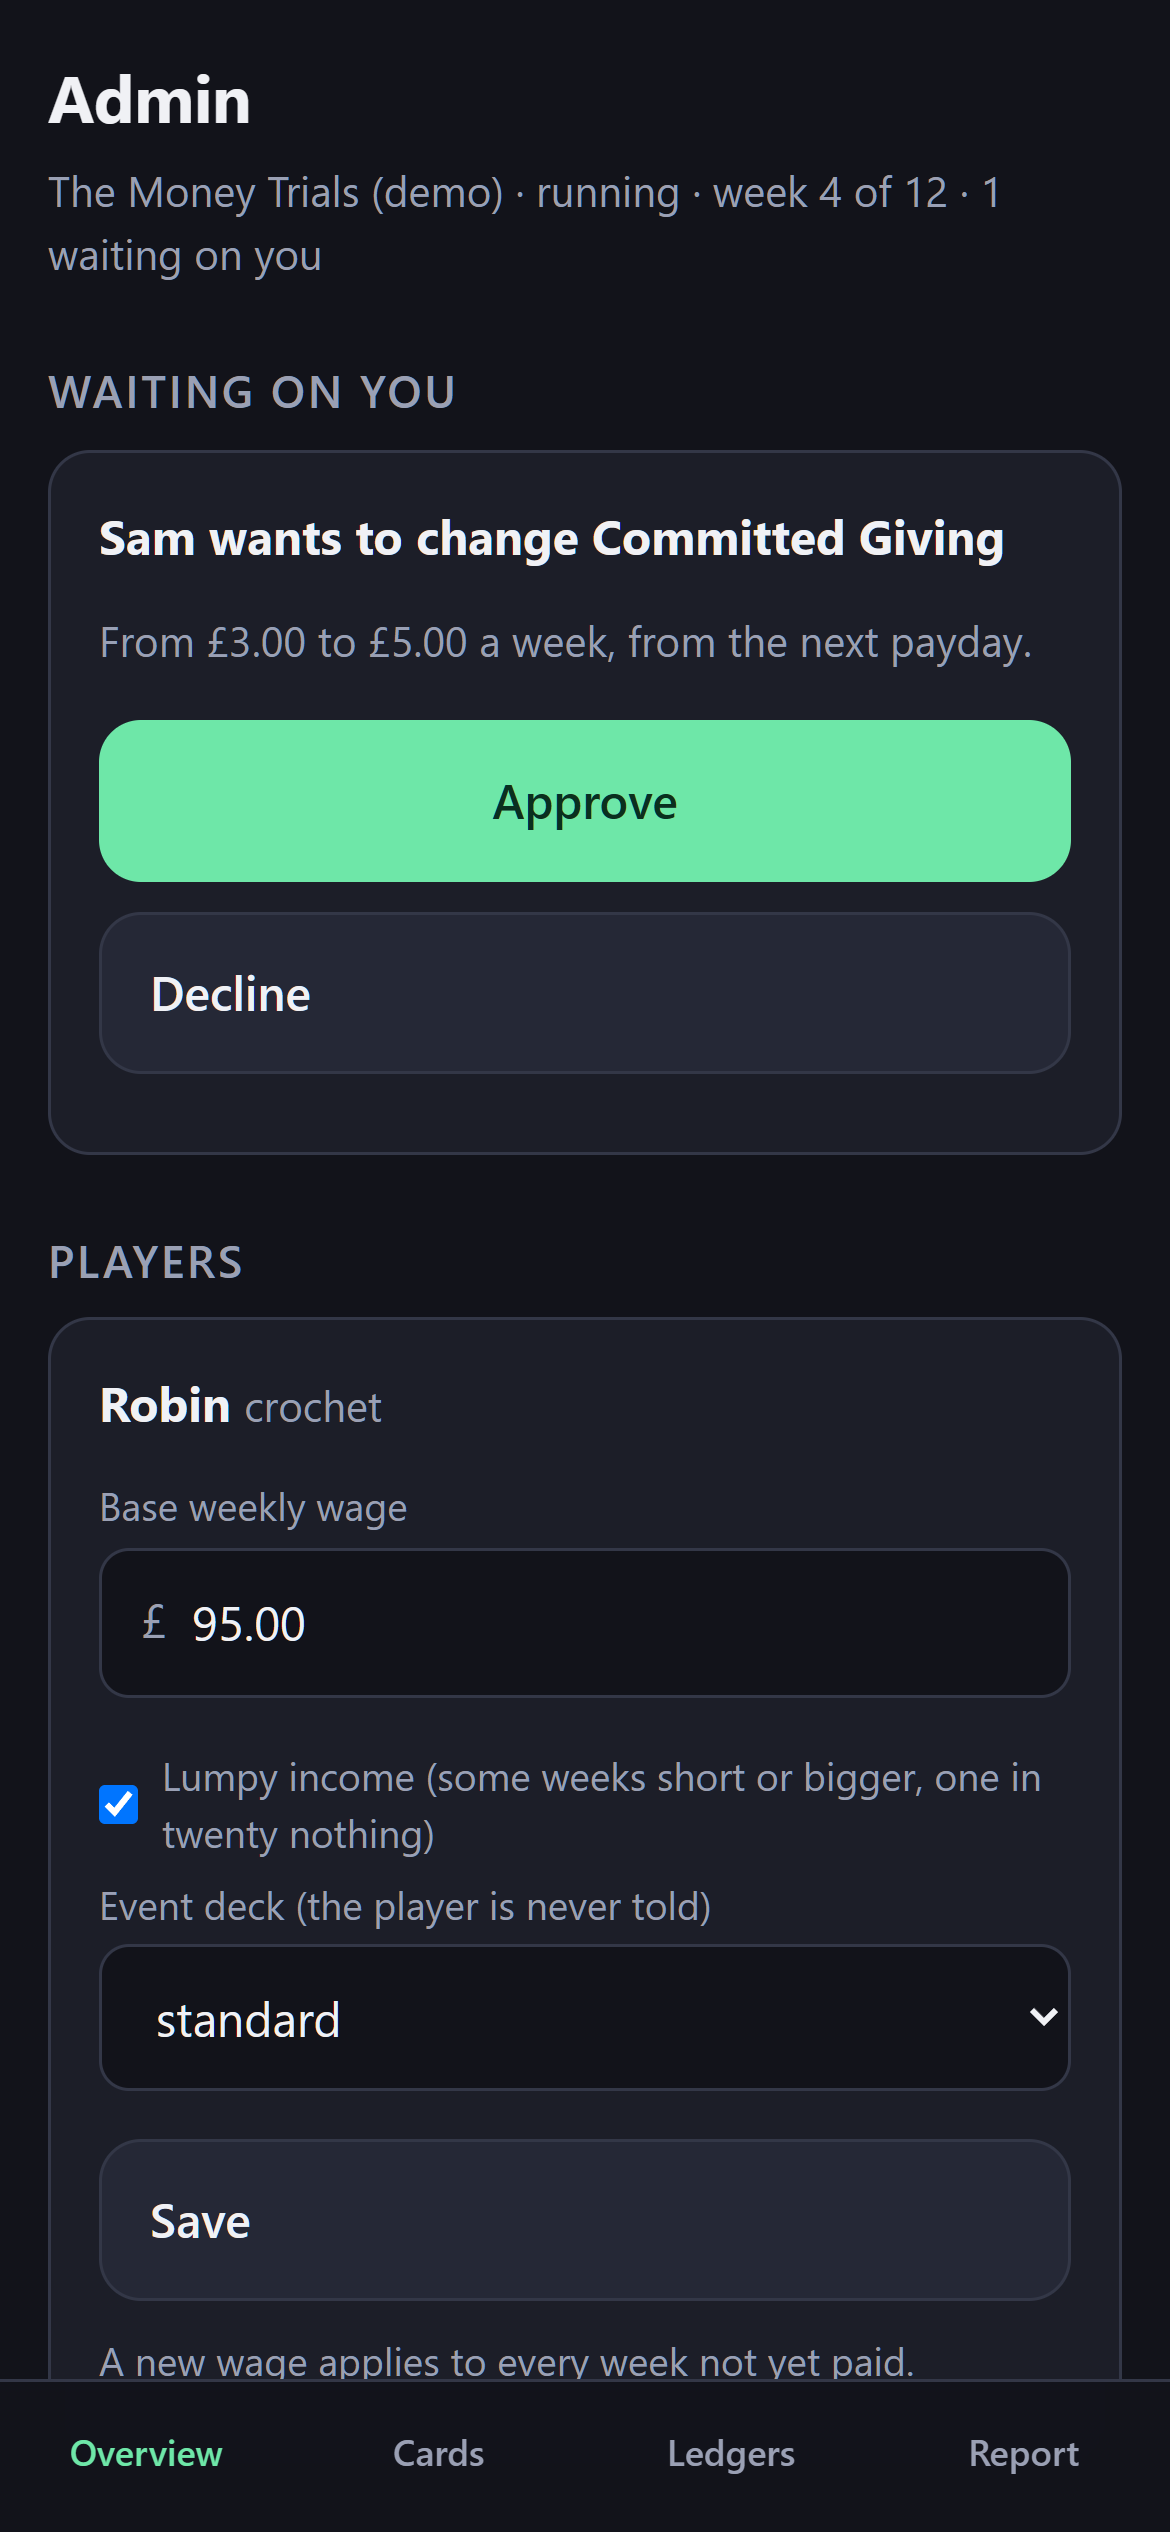
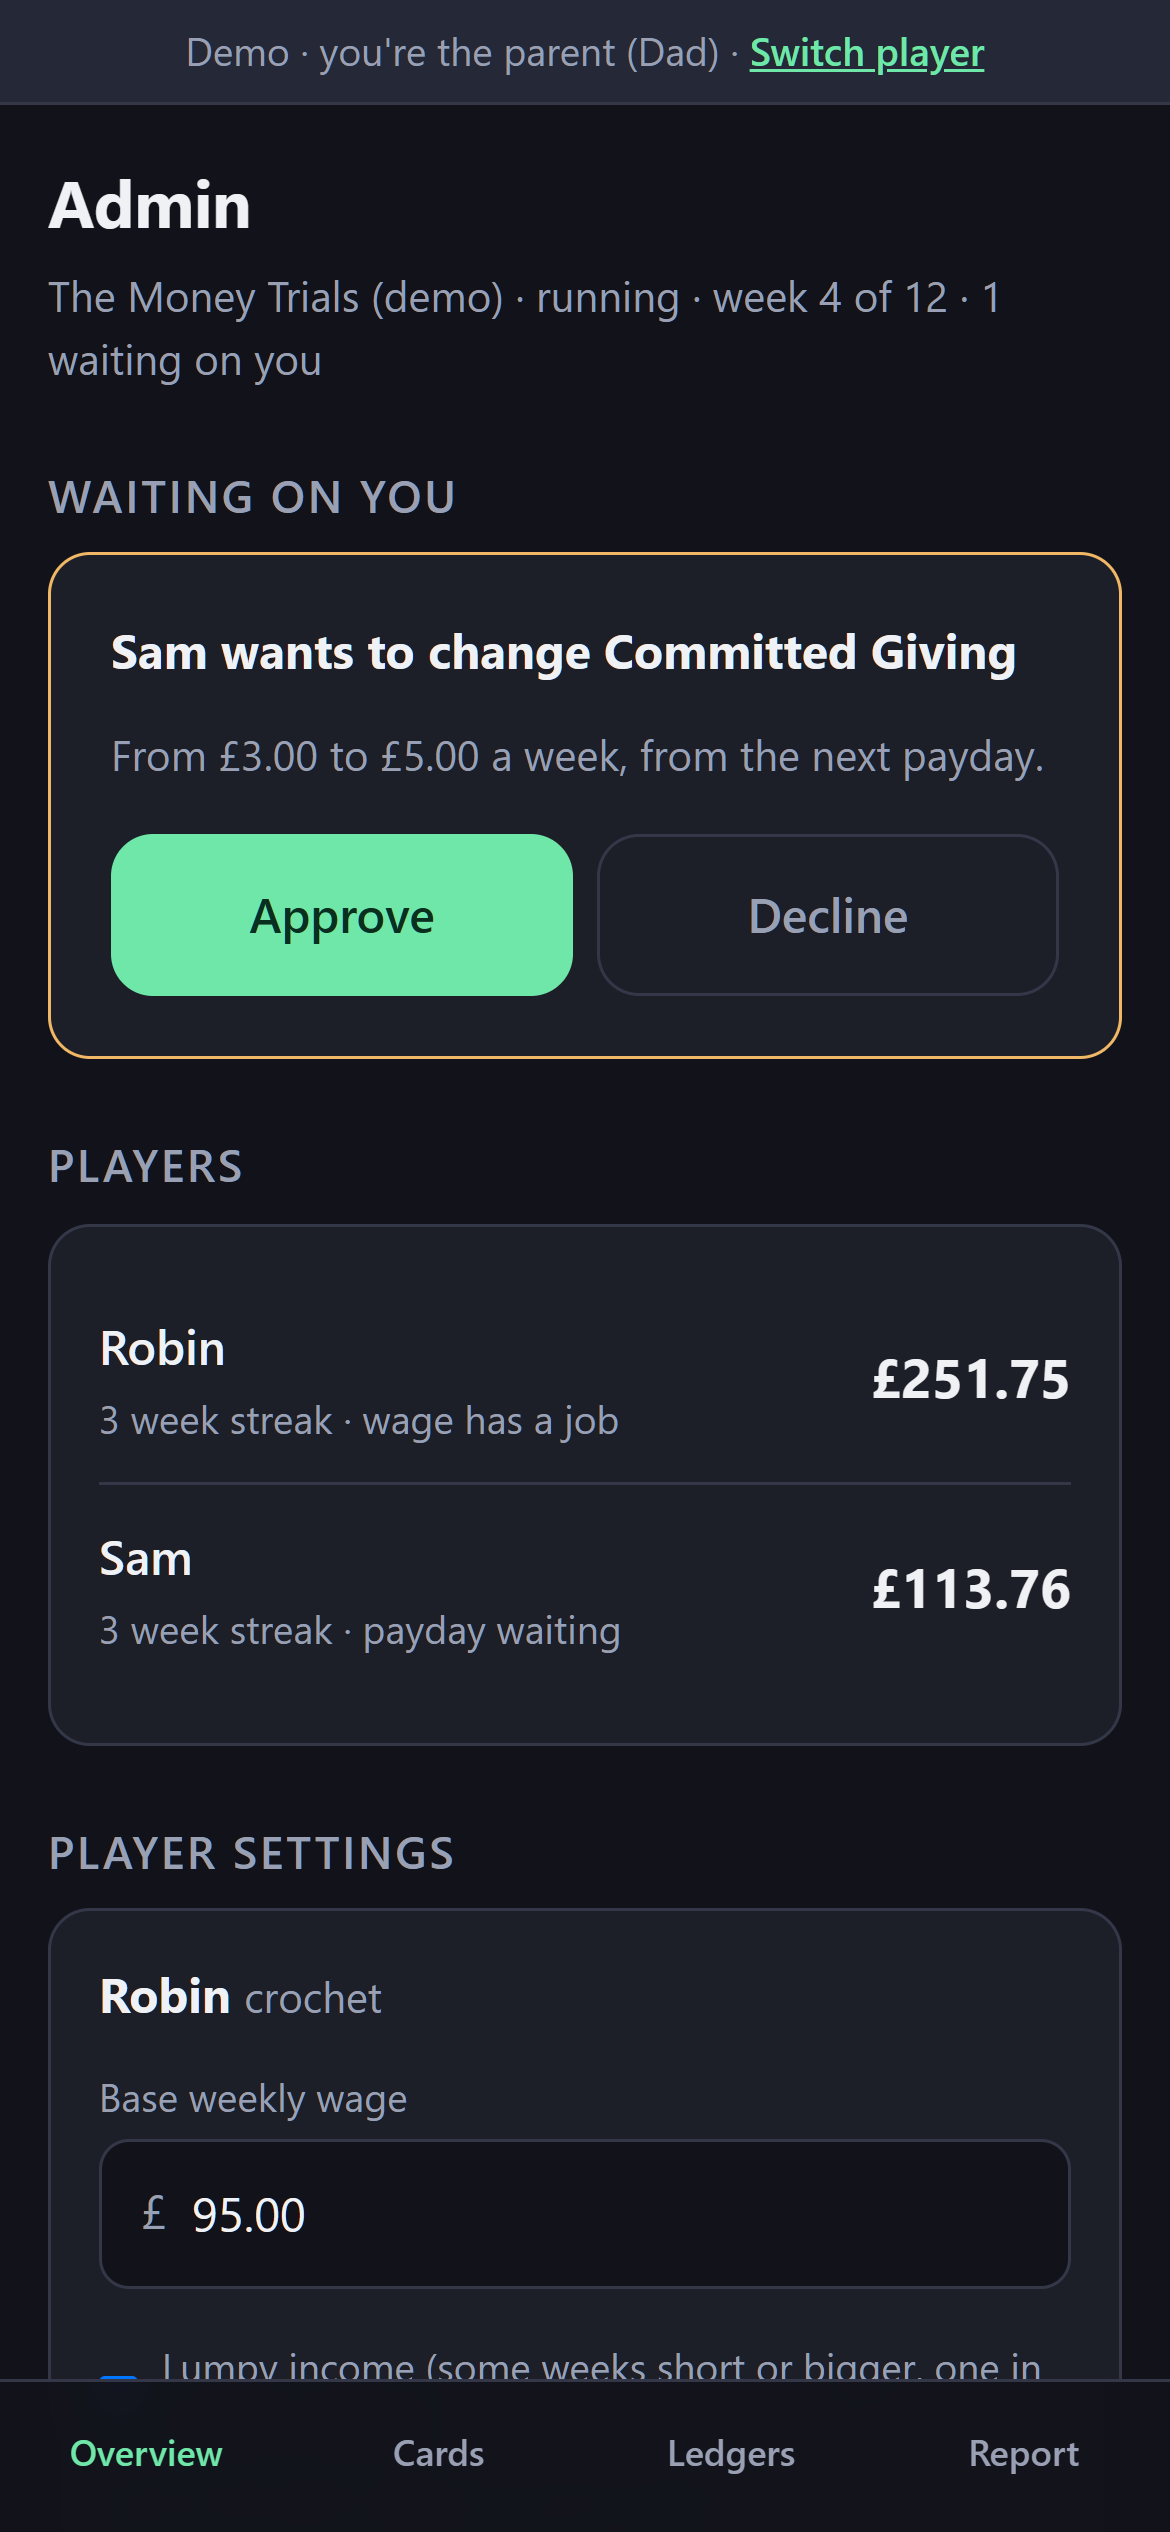
Refresh the write-up screenshots
New Today, Payday and parent shots from the demo after the UI pass, and
drop the line saying the screenshots predate it.

diff --git a/WRITEUP.md b/WRITEUP.md
@@ -62,7 +62,7 @@ The game fed a real hobby. One of them is building stock for a real craft sale, 
 
 The surprise was a fundraiser. One of them started one for herself, named "Me", with a £67 target. Her sister gave £2.
 
-What I got wrong was the interface. As the parent I couldn't tell why something was waiting for me, or what was happening each day. The guidance is weak and it looks plain. A first UI pass went live on the public demo on 23 November: one tap to try it as a player or as the parent, a clearer Today screen, and payday explained as you go. The screenshots here are from before it.
+What I got wrong was the interface. As the parent I couldn't tell why something was waiting for me, or what was happening each day. The guidance is weak and it looks plain. A first UI pass went live on the public demo on 23 November: one tap to try it as a player or as the parent, a clearer Today screen, and payday explained as you go.
 
 I removed loans on the day play started. Under-18s can't get credit in the UK, and I didn't want it shown as an easy option.
 
